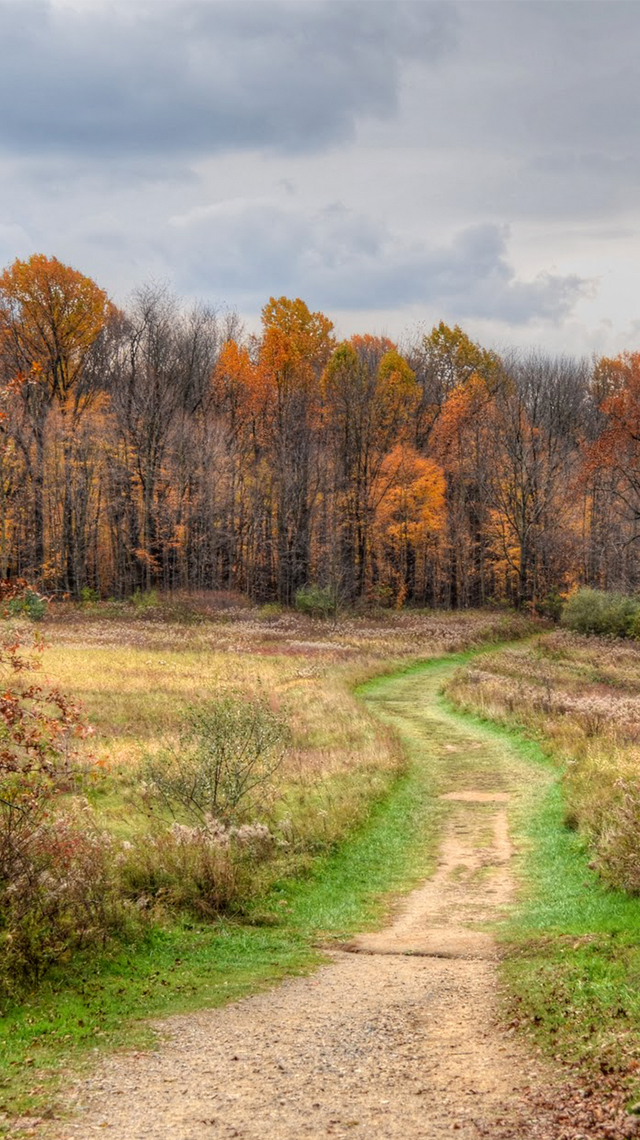
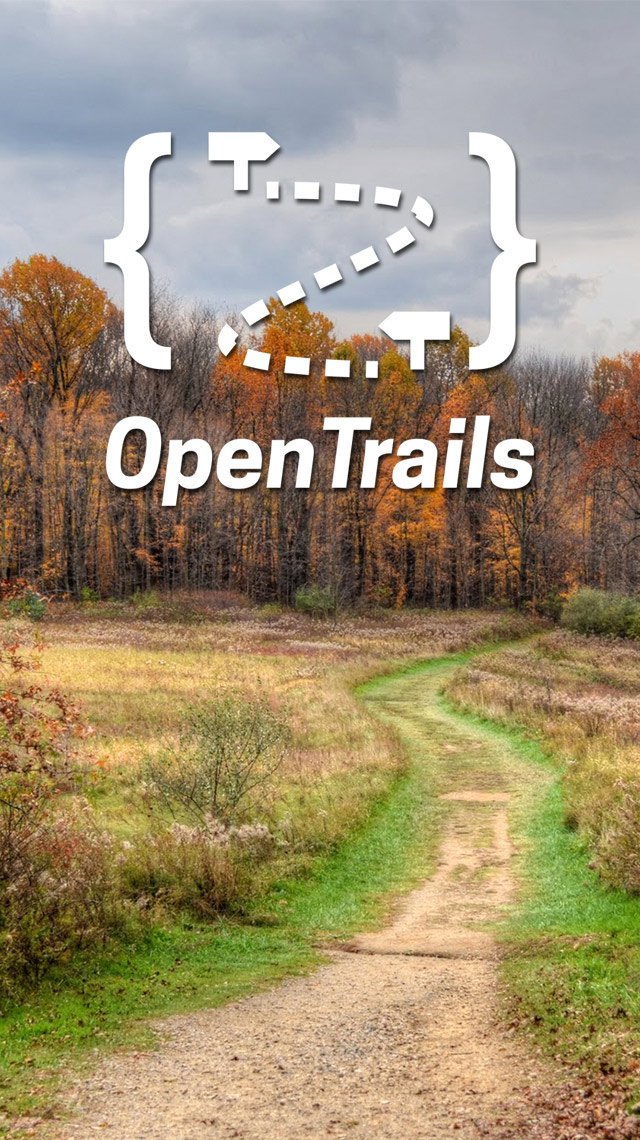
messing with the loading screen

diff --git a/www/index.html b/www/index.html
@@ -39,8 +39,8 @@
       </div>
 
       <div id="loading-view" ng-class="{fadeout:appLoaded}">
-        <h1 class="title">OpenTrails Mobile</h1>
-        <h4 class="subtitle">0.0.3</h4>
+<!--         <h1 class="title">OpenTrails Mobile</h1> -->
+        <!-- <h4 class="subtitle">0.0.3</h4> -->
       </div>
 
       <section id="notifications-view" ng-show="view === 'notifications-notices' || view === 'notifications-contact'" ng-controller="NotificationsCtrl" ng-cloak>

diff --git a/www/js/application/services.js b/www/js/application/services.js
@@ -8,7 +8,7 @@
   var LOCALHOST = "http://localhost:3000";
   var STAGING = "http://staging.outerspatial.com";
   var PRODUCTION = "http://www.outerspatial.com";
-  var BASE_ENDPOINT = LOCALHOST + '/api/v0/applications/1';
+  var BASE_ENDPOINT = PRODUCTION + '/api/v0/applications/1';
   var Configuration = {
     MIN_ZOOM_LEVEL: 4,
     MAX_ZOOM_LEVEL: 16,
